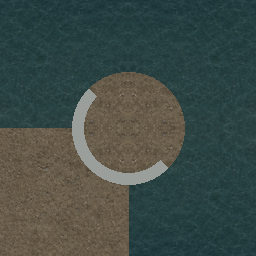
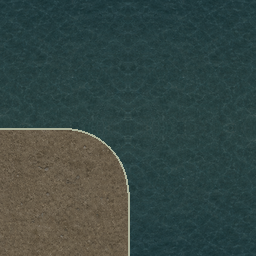
map preview: align crossings and rounded curbs

Changed region(s): [[0.0, 0.2812, 0.75, 1.0]]

diff --git a/tools/build_next_map_surface_pack.py b/tools/build_next_map_surface_pack.py
@@ -111,36 +111,82 @@ def curb_straight(pavement: Image.Image, asphalt: Image.Image) -> Image.Image:
     return image
 
 
-def curb_corner(pavement: Image.Image, asphalt: Image.Image, corner: str, inner: bool) -> Image.Image:
-    image = pavement.copy() if inner else asphalt.copy()
+def curb_corner(
+    pavement: Image.Image,
+    asphalt: Image.Image,
+    corner: str,
+    inner: bool,
+    *,
+    shoreline: bool = False,
+) -> Image.Image:
+    """Build one correctly aligned quarter-round material boundary.
+
+    The tile centre is the theoretical sharp corner.  Moving the curve centre
+    half a radius into the selected quadrant makes its straight arms meet the
+    20px curb band at exactly x/y=128.  The old implementation drew a 180-degree
+    ring around the tile centre, which produced the anti-aligned circular caps
+    visible at every workbench junction.
+    """
+    radius = 64
+    cx = radius if corner.endswith("l") else SIZE - radius
+    cy = radius if corner.startswith("t") else SIZE - radius
     mask = Image.new("L", (SIZE, SIZE), 0)
     draw_mask = ImageDraw.Draw(mask)
-    quadrant = {
-        "tl": (0, 0, CURB_CENTER, CURB_CENTER), "tr": (CURB_CENTER, 0, SIZE, CURB_CENTER),
-        "bl": (0, CURB_CENTER, CURB_CENTER, SIZE), "br": (CURB_CENTER, CURB_CENTER, SIZE, SIZE),
-    }[corner]
-    draw_mask.rectangle(quadrant, fill=255)
-    radius = 56
-    cx = CURB_CENTER if corner.endswith("l") else CURB_CENTER
-    cy = CURB_CENTER
+
     if corner == "tl":
-        draw_mask.ellipse((CURB_CENTER - radius, CURB_CENTER - radius, CURB_CENTER + radius, CURB_CENTER + radius), fill=255)
+        draw_mask.rectangle((0, 0, cx, CURB_CENTER), fill=255)
+        draw_mask.rectangle((0, 0, CURB_CENTER, cy), fill=255)
     elif corner == "tr":
-        draw_mask.ellipse((CURB_CENTER - radius, CURB_CENTER - radius, CURB_CENTER + radius, CURB_CENTER + radius), fill=255)
+        draw_mask.rectangle((cx, 0, SIZE, CURB_CENTER), fill=255)
+        draw_mask.rectangle((CURB_CENTER, 0, SIZE, cy), fill=255)
     elif corner == "bl":
-        draw_mask.ellipse((CURB_CENTER - radius, CURB_CENTER - radius, CURB_CENTER + radius, CURB_CENTER + radius), fill=255)
+        draw_mask.rectangle((0, CURB_CENTER, cx, SIZE), fill=255)
+        draw_mask.rectangle((0, cy, CURB_CENTER, SIZE), fill=255)
     else:
-        draw_mask.ellipse((CURB_CENTER - radius, CURB_CENTER - radius, CURB_CENTER + radius, CURB_CENTER + radius), fill=255)
-    if inner:
-        image = Image.composite(asphalt, pavement, mask)
-    else:
-        image = Image.composite(pavement, asphalt, mask)
+        draw_mask.rectangle((cx, CURB_CENTER, SIZE, SIZE), fill=255)
+        draw_mask.rectangle((CURB_CENTER, cy, SIZE, SIZE), fill=255)
+    circle = (cx - radius, cy - radius, cx + radius, cy + radius)
+    draw_mask.ellipse(circle, fill=255)
+
+    image = Image.composite(asphalt, pavement, mask) if inner else Image.composite(pavement, asphalt, mask)
     draw = ImageDraw.Draw(image)
-    # A compact curb cap replaces the source pack's broad grey roadway square.
-    if corner in {"tl", "br"}:
-        draw.arc((CURB_CENTER - radius, CURB_CENTER - radius, CURB_CENTER + radius, CURB_CENTER + radius), 135, 315, fill=(155, 159, 155), width=12)
-    else:
-        draw.arc((CURB_CENTER - radius, CURB_CENTER - radius, CURB_CENTER + radius, CURB_CENTER + radius), 45, 225, fill=(155, 159, 155), width=12)
+    arc_angles = {"tl": (0, 90), "tr": (90, 180), "bl": (270, 360), "br": (180, 270)}
+    segments = {
+        "tl": (((0, CURB_CENTER), (cx, CURB_CENTER)), ((CURB_CENTER, 0), (CURB_CENTER, cy))),
+        "tr": (((cx, CURB_CENTER), (SIZE, CURB_CENTER)), ((CURB_CENTER, 0), (CURB_CENTER, cy))),
+        "bl": (((0, CURB_CENTER), (cx, CURB_CENTER)), ((CURB_CENTER, cy), (CURB_CENTER, SIZE))),
+        "br": (((cx, CURB_CENTER), (SIZE, CURB_CENTER)), ((CURB_CENTER, cy), (CURB_CENTER, SIZE))),
+    }[corner]
+
+    if shoreline:
+        # A restrained broken foam edge, rather than a concrete curb, follows
+        # the same corner grammar at the river boundary.
+        edge = (175, 181, 158)
+        for start, end in segments:
+            draw.line((*start, *end), fill=edge, width=2)
+        draw.arc(circle, *arc_angles[corner], fill=edge, width=2)
+        return image
+
+    # Paint the road-side shadow first, then the curb band.  Their widths match
+    # curb_straight(), so every arm registers without a grey square or seam.
+    for width, color in ((26, (24, 28, 30)), (20, (91, 94, 91))):
+        for start, end in segments:
+            draw.line((*start, *end), fill=color, width=width)
+        draw.arc(circle, *arc_angles[corner], fill=color, width=width)
+
+    # The narrow highlight sits on the pavement side of the band and makes the
+    # curve readable without turning it into a bright circular outline.
+    inset = radius - CURB_HALF
+    highlight_circle = (cx - inset, cy - inset, cx + inset, cy + inset)
+    highlight_segments = {
+        "tl": (((0, CURB_CENTER - CURB_HALF), (cx, CURB_CENTER - CURB_HALF)), ((CURB_CENTER - CURB_HALF, 0), (CURB_CENTER - CURB_HALF, cy))),
+        "tr": (((cx, CURB_CENTER - CURB_HALF), (SIZE, CURB_CENTER - CURB_HALF)), ((CURB_CENTER + CURB_HALF, 0), (CURB_CENTER + CURB_HALF, cy))),
+        "bl": (((0, CURB_CENTER + CURB_HALF), (cx, CURB_CENTER + CURB_HALF)), ((CURB_CENTER - CURB_HALF, cy), (CURB_CENTER - CURB_HALF, SIZE))),
+        "br": (((cx, CURB_CENTER + CURB_HALF), (SIZE, CURB_CENTER + CURB_HALF)), ((CURB_CENTER + CURB_HALF, cy), (CURB_CENTER + CURB_HALF, SIZE))),
+    }[corner]
+    for start, end in highlight_segments:
+        draw.line((*start, *end), fill=(157, 162, 158), width=3)
+    draw.arc(highlight_circle, *arc_angles[corner], fill=(157, 162, 158), width=3)
     return image
 
 
@@ -161,9 +207,10 @@ def marking(kind: str) -> Image.Image:
     image = Image.new("RGBA", (SIZE, SIZE), (0, 0, 0, 0))
     draw = ImageDraw.Draw(image)
     white = (211, 214, 207, 232)
+    crossing_white = (181, 186, 180, 190)
     yellow = (194, 157, 58, 235)
     if kind == "white_crossing_piece":
-        draw.rounded_rectangle((74, 12, 182, 244), radius=5, fill=white)
+        draw.rounded_rectangle((74, 12, 182, 244), radius=5, fill=crossing_white)
         digest = hashlib.sha256(kind.encode("ascii")).digest()
         for index in range(24):
             x = 80 + digest[index % len(digest)] % 96
@@ -319,8 +366,8 @@ def main() -> None:
     for side, angle in rotations.items():
         tile(f"shoreline_{side}", shore_top.rotate(-angle), f"shoreline/{side}.png", "sidewalk", "shoreline")
     for corner in ("tl", "tr", "bl", "br"):
-        outer = curb_corner(damp_sand, shallow_water, corner, False)
-        inner = curb_corner(damp_sand, shallow_water, corner, True)
+        outer = curb_corner(damp_sand, shallow_water, corner, False, shoreline=True)
+        inner = curb_corner(damp_sand, shallow_water, corner, True, shoreline=True)
         tile(f"shoreline_{corner}_outer", outer, f"shoreline/{corner}_outer.png", "sidewalk", "shoreline")
         tile(f"shoreline_{corner}_inner", inner, f"shoreline/{corner}_inner.png", "sidewalk", "shoreline")
 

diff --git a/map_workbench.py b/map_workbench.py
@@ -72,6 +72,30 @@ def number(row: dict, key: str, default: float = 0.0) -> float:
         return default
 
 
+def crossing_curb_offset_world(
+    feature: dict,
+    road_by_id: dict[str, dict],
+    road_widths: dict[str, float],
+    regular_road_width: float,
+) -> float:
+    """Return the crossing endpoint measured from its centre to either curb."""
+    authored_span_world = number(feature, "length", regular_road_width + 130.0)
+    fallback = max(0.0, (authored_span_world - 130.0) * 0.5)
+    group = str(feature.get("group", ""))
+    if ":" not in group:
+        return fallback
+    junction, approach = group.rsplit(":", 1)
+    if "+" not in junction:
+        return fallback
+    horizontal_id, vertical_id = junction.split("+", 1)
+    crossed_id = vertical_id if approach in {"north", "south"} else horizontal_id
+    crossed_road = road_by_id.get(crossed_id)
+    if crossed_road is None:
+        return fallback
+    road_class = str(crossed_road.get("road_class", "residential"))
+    return road_widths.get(road_class, regular_road_width) * 0.5
+
+
 def watched_paths() -> list[Path]:
     files = [
         GRID_DATA_DIR / "ground_grid.json",
@@ -686,11 +710,14 @@ class MapWorkbench:
 
         horizontal = [road for road in land_roads if road.get("orientation") == "horizontal"]
         vertical = [road for road in land_roads if road.get("orientation") == "vertical" and abs(number(road, "x2") - number(road, "x1")) < 1]
+        # A junction exposes the convex corner of each surrounding block.  The
+        # asset name now follows that actual screen quadrant; the previous
+        # opposite-quadrant inner-corner mapping made every cap anti-aligned.
         corner_assets = (
-            (-1, -1, "curb_br_inner"),
-            (1, -1, "curb_bl_inner"),
-            (-1, 1, "curb_tr_inner"),
-            (1, 1, "curb_tl_inner"),
+            (-1, -1, "curb_tl_outer"),
+            (1, -1, "curb_tr_outer"),
+            (-1, 1, "curb_bl_outer"),
+            (1, 1, "curb_br_outer"),
         )
         for hroad in horizontal:
             iy = number(hroad, "y1")
@@ -895,6 +922,15 @@ class MapWorkbench:
     def _draw_street_features(self, target: pygame.Surface) -> None:
         if not self.show_street_detail:
             return
+        regular_road_width = float(self.layout_contract.get("regular_road_width", 420))
+        bridge_road_width = float(self.layout_contract.get("gwb_road_width", 1050))
+        road_widths = {
+            "bridge": bridge_road_width,
+            "primary": regular_road_width,
+            "secondary": regular_road_width,
+            "residential": regular_road_width,
+        }
+        road_by_id = {str(road.get("street_id", "")): road for road in self.layout.get("streets", [])}
         for row in self.layout.get("street_features", []):
             kind = row.get("kind", "")
             p = self.world_to_screen((number(row, "x"), number(row, "y")))
@@ -902,32 +938,39 @@ class MapWorkbench:
             if kind == "crosswalk":
                 # `rotation` is the pedestrian crossing axis. Zebra bars run
                 # perpendicular to that axis (parallel to traffic), and repeat
-                # across the full curb-to-curb span.
-                span_world = number(row, "length", 360)
-                pieces = max(5, int(round(span_world / 62)))
-                stripe_canvas = max(6, int(150 * self.camera.zoom))
-                span = max(8, int(span_world * self.camera.zoom))
+                # across the crossed road's true curb-to-curb span.  Legacy
+                # feature rows include a 65-unit overrun on both ends; using
+                # that value directly painted the outer bars on the sidewalk.
+                curb_offset_world = crossing_curb_offset_world(row, road_by_id, road_widths, regular_road_width)
+                crossing_span_world = curb_offset_world * 2.0
+                pieces = max(5, int(round(crossing_span_world / 62)))
+                stripe_width = max(4, int(56 * self.camera.zoom))
+                stripe_length = max(8, int(144 * self.camera.zoom))
+                span = max(8, int(crossing_span_world * self.camera.zoom))
                 for index in range(pieces):
                     offset = -span / 2 + (index + 0.5) * span / pieces
                     if rotation % 180 == 90:
                         center = (p[0], round(p[1] + offset))
-                        image = self._catalog_art("mark_zebra_crossing", (stripe_canvas, stripe_canvas), 90)
+                        image = self._catalog_art("mark_zebra_crossing", (stripe_width, stripe_length), 90)
                     else:
                         center = (round(p[0] + offset), p[1])
-                        image = self._catalog_art("mark_zebra_crossing", (stripe_canvas, stripe_canvas))
+                        image = self._catalog_art("mark_zebra_crossing", (stripe_width, stripe_length))
                     target.blit(image, image.get_rect(center=center))
                 # Ramps are authored only at actual crossings, never scattered
-                # randomly along a curb or on the river/beach side.
+                # randomly along a curb or on the river/beach side.  Their
+                # centers follow the crossed road's real curb line, not the
+                # zebra artwork's intentionally longer visual span.
+                curb_offset = curb_offset_world * self.camera.zoom
                 ramp_px = max(5, int(CITY_BLOCK_TILE_WORLD * self.camera.zoom))
                 if rotation % 180 == 90:
                     ramps = (
-                        ((p[0], round(p[1] - span / 2)), "curb_ramp_top"),
-                        ((p[0], round(p[1] + span / 2)), "curb_ramp_bottom"),
+                        ((p[0], round(p[1] - curb_offset)), "curb_ramp_top"),
+                        ((p[0], round(p[1] + curb_offset)), "curb_ramp_bottom"),
                     )
                 else:
                     ramps = (
-                        ((round(p[0] - span / 2), p[1]), "curb_ramp_left"),
-                        ((round(p[0] + span / 2), p[1]), "curb_ramp_right"),
+                        ((round(p[0] - curb_offset), p[1]), "curb_ramp_left"),
+                        ((round(p[0] + curb_offset), p[1]), "curb_ramp_right"),
                     )
                 for center, asset_id in ramps:
                     ramp = self._catalog_art(asset_id, (ramp_px, ramp_px))

diff --git a/tools/v4_map_workbench_audit.py b/tools/v4_map_workbench_audit.py
@@ -15,6 +15,8 @@ DATA = ROOT / "dev_tools" / "map_generator" / "working_cosmetics" / "approved_v4
 GENERATOR_TOOLS = ROOT / "dev_tools" / "map_generator" / "tools"
 sys.path.insert(0, str(GENERATOR_TOOLS))
 import build_v4_approved_sprite_layout as layout_builder  # noqa: E402
+sys.path.insert(0, str(ROOT))
+from map_workbench import crossing_curb_offset_world  # noqa: E402
 
 
 def rows(name: str) -> list[dict[str, str]]:
@@ -77,10 +79,25 @@ def main() -> None:
     assert all(row["controller"] == row["group"] for row in signals)
     assert all(len(row["cycle_states"].split("|")) == 6 for row in signals)
     crossing_groups: dict[str, set[str]] = defaultdict(set)
+    road_by_id = {road["street_id"]: road for road in streets}
+    road_widths = {
+        "bridge": float(contract["gwb_road_width"]),
+        "primary": float(contract["regular_road_width"]),
+        "secondary": float(contract["regular_road_width"]),
+        "residential": float(contract["regular_road_width"]),
+    }
     for crossing in crossings:
         junction, approach = crossing["group"].rsplit(":", 1)
         crossing_groups[junction].add(approach)
         assert float(crossing["length"]) >= 550
+        # The authored stripe envelope contains 65 units of legacy overrun on
+        # both ends; visible bars and tactile ramps must stop on the true curb.
+        assert crossing_curb_offset_world(
+            crossing,
+            road_by_id,
+            road_widths,
+            float(contract["regular_road_width"]),
+        ) == float(contract["regular_road_width"]) / 2
     assert crossing_groups
     signal_rotation = {"north": "180", "south": "0", "west": "90", "east": "270"}
     rotation_signal = {value: key for key, value in signal_rotation.items()}
@@ -165,6 +182,24 @@ def main() -> None:
             assert image.getchannel("A").getextrema()[0] == 0, f"opaque exterior box: {tile_id}"
     assert {f"water_deep_ripple_{index}" for index in range(3)} <= surface_catalog["tiles"].keys()
     assert {"mark_dashed_white_lane", "mark_zebra_crossing"} <= surface_catalog["objects"].keys()
+    crossing_art = Image.open(ROOT / surface_catalog["objects"]["mark_zebra_crossing"]["image"]).convert("RGBA")
+    crossing_alpha = crossing_art.getchannel("A")
+    assert crossing_alpha.getextrema()[1] <= 190, "zebra marking reverted to an opaque white slab"
+    assert sum(crossing_alpha.histogram()[1:]) < 256 * 256 // 2
+
+    pavement = Image.open(ROOT / surface_catalog["tiles"]["pavement_standard_variant_0"]["image"]).convert("RGB")
+    asphalt = Image.open(ROOT / surface_catalog["tiles"]["road_asphalt_variant_0"]["image"]).convert("RGB")
+    corner_samples = {
+        "tl": ((90, 90), (224, 224), (124, 124)),
+        "tr": ((166, 90), (32, 224), (132, 124)),
+        "bl": ((90, 166), (224, 32), (124, 132)),
+        "br": ((166, 166), (32, 32), (132, 132)),
+    }
+    for corner, (pavement_point, asphalt_point, rounded_cutout) in corner_samples.items():
+        image = Image.open(ROOT / surface_catalog["tiles"][f"curb_{corner}_outer"]["image"]).convert("RGB")
+        assert image.getpixel(pavement_point) == pavement.getpixel(pavement_point)
+        assert image.getpixel(asphalt_point) == asphalt.getpixel(asphalt_point)
+        assert image.getpixel(rounded_cutout) == asphalt.getpixel(rounded_cutout), f"curb_{corner}_outer is not quarter-round"
     assert {
         "entrance_door", "entrance_buzzer", "roof_access_door", "elevator_transition",
         "fire_escape_ladder", "traffic_red_not_clear", "traffic_yellow_not_clear",
